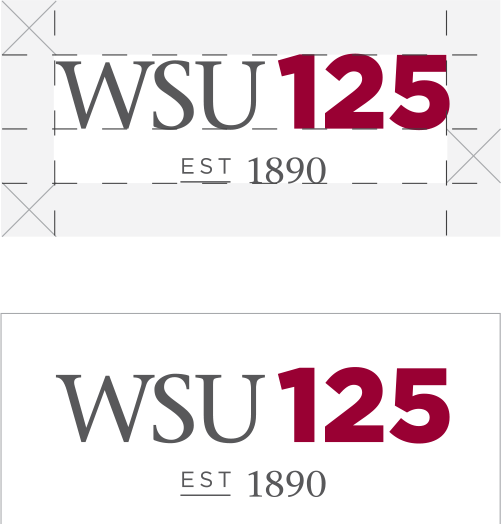
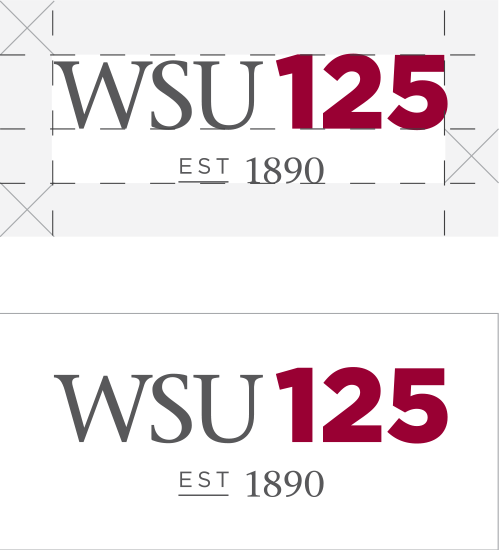
Update clearspace, ensure clearing

diff --git a/page-campaigns.php b/page-campaigns.php
@@ -57,12 +57,13 @@ section:not(.detailed) button.detail header::after {
 			?>
 		</div>
 		<div class="column two">
+			<h3>Clear space</h3>
 			<figure>
 				<img src="/wp-content/themes/brand/images/125th/125th-clearspace.png" alt="125th Clearspace" width="100%" />
 			</figure>
 		</div>
 		
-		<div class="column one">
+		<div class="column one clear-both">
 			<h3>Appropriate Variants</h3>
 			<figure style="text-align: center; padding-top: 40px;" class="twelve-twelfths-max">
 				<img src="/wp-content/themes/brand/images/125th/125th-alts.png" alt="125th Marks" width="100%" />
